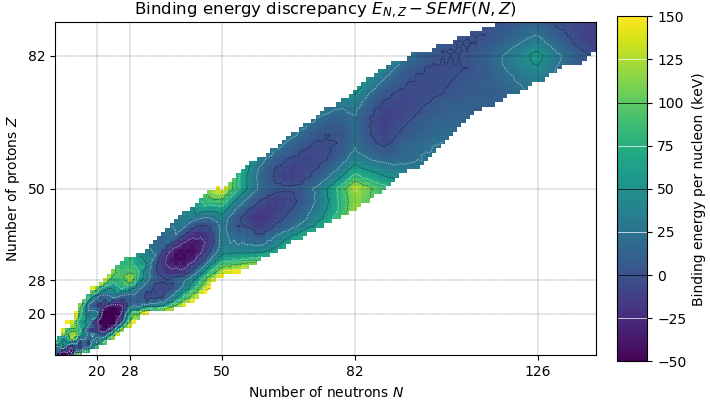
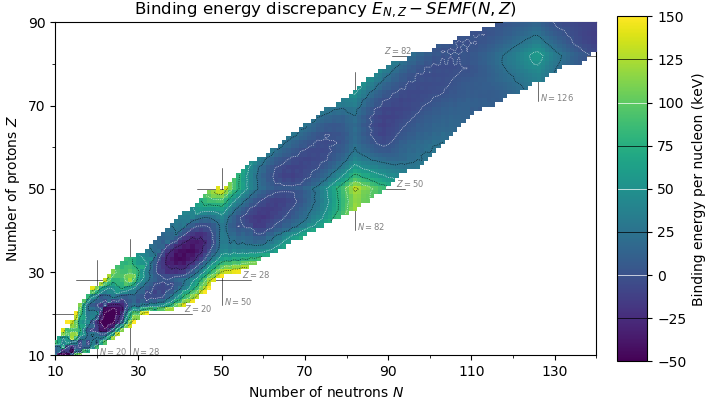
Merge efforts, add contour, labels

diff --git a/shell_gap.py b/shell_gap.py
@@ -4,7 +4,7 @@ import numpy as np
 import pandas as pd
 from matplotlib import pyplot, colors, lines
 
-from helpers import grid_data, magic_lines
+from helpers import grid, grid_data, magic_lines, LINE, LABEL, GRAPH, CONTOUR
 
 N_REL = 60  # separation between n and p shell gaps as displayed
 
@@ -44,34 +44,15 @@ for n, z in product(range(max_n+1), range(max_z+1)):
     if (n+2, z  ) in s2n:
         shell_n[n, z] = shell_comb[n+N_REL, z] = s2n[n,z] - s2n[n+2,z  ]
 
-z = np.arange(0, max_z+1)
-n = np.arange(0, max_n+1 + N_REL)
-N, Z = np.meshgrid(n, z)
-
-MAGIC = magic_lines(s2p, s2n)
-
 ## FIGURE
- 
-fig = pyplot.figure(constrained_layout=True)
-ax = fig.add_subplot()
-ax.set_title('Proton and neutron empirical shell gaps')
-ax.set_ylabel('Number of protons $Z$')
-ax.set_ylim(0, max_z-4)
 
-N_TICKS = 1 + (max_n + N_REL) // 10
-ax.set_xticks(range(0, 10*N_TICKS, 10), minor=True)
-ax.set_xticks(range(0, 10*N_TICKS, 20))
-
-Z_TICKS = 1 + (max_z) // 10
-ax.set_yticks(range(0, 10*Z_TICKS, 10), minor=True)
-ax.set_yticks(range(0, 10*Z_TICKS, 20))
-
+fig, ax, (N, Z) = grid(max_n-4+N_REL, max_z-4, minor=10, major=20)
+ax.set_title('Empirical shell gaps for binding energy $E$')
 ax.set_xlabel('Number of neutrons $N$ ($N+{}$ for neutron shell gaps)'.format(N_REL))
-ax.set_xlim(0, max_n-4 + N_REL)
 
 E = grid_data(shell_comb, N, Z)
-img = ax.imshow(
-    E, norm=colors.SymLogNorm(5), cmap='viridis', zorder=3)
+contour = ax.contour(E, (0, 1), **CONTOUR)
+img = ax.imshow(E, norm=colors.SymLogNorm(5), **GRAPH)
 
 # tick marks are nonlinear
 SHELL_TICKS = (-1, 0, 1, 2, 3, 4, 5, 10, 20)
@@ -81,25 +62,31 @@ SHELL_TICKMARKS[-1] += ' MeV'
 cbar = fig.colorbar(img, ticks=SHELL_TICKS)
 cbar.ax.set_yticklabels(SHELL_TICKMARKS)
 cbar.ax.set_ylabel('Empirical shell gap')
+cbar.add_lines(contour)
 
 # MAGIC NUMBERS
-LINE = dict(axes=ax, zorder=1, c='black', lw=0.4)
-LABEL = dict(xycoords='data', color='gray', size=6)
+LINE['axes'] = ax
 
-for i, line in MAGIC.items():
-    if i < 100:
-        line['n'][1] += N_REL
-        ax.add_line(lines.Line2D(line['n'], [i, i], **LINE))
-        x = sum(line['n'])*0.5
+for i, ((n0, n1), (z0, z1)) in magic_lines(s2p, -5, s2n, +5):
+    if n0:
+        n1 += N_REL
+        ax.add_line(lines.Line2D((n0, n1), (i, i), **LINE))
+        x = (n0+n1)/2
         ax.annotate("$Z={}$".format(i), (x*0.95 + 5, i+0.5), **LABEL)
     
     for n in 0, N_REL:
-        ax.add_line(lines.Line2D([i+n, i+n], line['z'], **LINE))
-    ax.annotate("$N={}$".format(i), (i+N_REL+0.5, line['z'][0]), **LABEL)
+        ax.add_line(lines.Line2D((i+n, i+n), (z0, z1), **LINE))
+    ax.annotate("$N={}$".format(i), (i+N_REL+0.5, z0), **LABEL)
 
 NZ = NZ_LINE_STOPPER = 56
 ax.add_line(lines.Line2D([    0,       NZ], [0, NZ], **LINE))
 ax.add_line(lines.Line2D([N_REL, N_REL+NZ], [0, NZ], **LINE))
+
+for l, xy in (
+    ('Proton shell gap \n$Δ_{2p}(N,Z)=E_{N,Z+2}+E_{N,Z-2}-2E_{N,Z}$', (20, 90)),
+    ('Neutron shell gap\n$Δ_{2n}(N,Z)=E_{N+2,Z}+E_{N-2,Z}-2E_{N,Z}$', (130, 20))
+):
+    ax.annotate(l, xy)
 
 fig.set_size_inches(8.2, 4)
 pyplot.savefig('shell_gap.png', transparency=True)

diff --git a/drop_discrepancy.py b/drop_discrepancy.py
@@ -1,51 +1,44 @@
 import numpy as np
 from matplotlib import pyplot, colors, lines
 
-from helpers import magic_lines, grid_data
 from drop_data import df, df_dict, binding_per_nucleon
+from helpers import grid, grid_data, magic_lines, LINE, LABEL, GRAPH, CONTOUR
 
 df['difference'] = df.E - binding_per_nucleon(df.N, df.Z)
 
 if __name__ == '__main__':
-    fig, ax = pyplot.subplots(constrained_layout=True)
+    max_n, max_z = 140, 90
+    fig, ax, (N, Z) = grid(max_n, max_z, minor=10, major=20, min_nz=10)
     ax.set_title('Binding energy discrepancy $E_{N,Z} - SEMF(N,Z)$')
-    minZN, maxZ, maxN = 10, 90, 140
-
-    ax.set_ylabel('Number of protons $Z$')
-    z = np.arange(0, maxZ+1)
-    ax.set_ylim(minZN, maxZ)
-    magicP = (20, 28, 50, 82)
-    ax.set_yticks(magicP, minor=False)
-    for y in magicP: ax.axhline(y, c='black', ls='dashed', lw=0.2)
-
-    ax.set_xlabel('Number of neutrons $N$')
-    n = np.arange(0, maxN+1)
-    ax.set_xlim(minZN, maxN)
-    magicN = (20, 28, 50, 82, 126)
-    ax.set_xticks(magicN, minor=False)
-    for x in magicN: ax.axvline(x, c='black', ls='dashed', lw=0.2)
-
-    energy = 'Binding energy per nucleon (keV)'
-    N, Z = np.meshgrid(n, z)
+    
     data = df_dict('difference')
     E = grid_data(data, N, Z)
-    E[N < minZN] = E[Z < minZN] = 0
     
     minE, maxE = -50, 150
     E[E > 152] = float('nan')
     contours = np.linspace(minE, maxE, (maxE-minE)//25+1)
-    contour = ax.contour(
-        E, contours, colors=('black', 'white'),
-        linestyles='dotted', linewidths=0.5)
+    contour = ax.contour(E, contours, **CONTOUR)
 
     E[E < minE] = minE
     E[E > maxE] = maxE
 
-    image = ax.imshow(E, cmap='viridis', origin='lower')
+    image = ax.imshow(E, **GRAPH)
     cbar = fig.colorbar(image)
-    cbar.ax.set_ylabel(energy)
+    cbar.ax.set_ylabel('Binding energy per nucleon (keV)')
     cbar.set_ticks(contours)
     cbar.add_lines(contour)
+
+    # MAGIC NUMBERS
+    LINE['axes'] = ax
+
+    for i, ((n0, n1), (z0, z1)) in magic_lines(data, +5, data, +5):
+        if n0:
+            ax.add_line(lines.Line2D((n0, n1), (i, i), **LINE))
+            x = n1 if n1 < max_n else n0 
+            ax.annotate("$Z={}$".format(i), (x-2, i+0.5), **LABEL)
+        if z0:
+            ax.add_line(lines.Line2D((i, i), (z0, z1), **LINE))
+            ax.annotate("$N={}$".format(i), (i+0.5, max(z0, 10)), **LABEL)
 
     fig.set_size_inches(7.1, 4)
     pyplot.savefig('drop_discrepancy.png', transparency=True)

diff --git a/drop_prediction.py b/drop_prediction.py
@@ -1,30 +1,17 @@
 import numpy as np
 from matplotlib import pyplot
 
-from helpers import grid_data
+from helpers import grid_data, grid, GRAPH
 from drop_data import df_dict, binding_per_nucleon
 
 def prediction(do_ticks, show_title, do_contours, do_stable):
-    fig, ax = pyplot.subplots(constrained_layout=True)
-
-    ax.set_xlabel('Number of neutrons $N$')
-    ax.set_xlim(0, 140)
-    n = np.arange(1, 143)
-
-    ax.set_ylabel('Number of protons $Z$')
-    ax.set_ylim(0, 90)
-    z = np.arange(1, 93)
-
-    N, Z = np.meshgrid(n, z)
+    fig, ax, (N, Z) = grid(140, 90, major=10, minor=20, min_nz=0, data_min=1)
     E = binding_per_nucleon(N, Z) / 1000
     E[E<0] = 0
-    image = ax.imshow(E, cmap='viridis', origin='lower', alpha=1)
+    image = ax.imshow(E, **GRAPH)
 
-    if do_ticks:
-        ax.set_xticks(range(10, 140, 10), minor=True)
-    else:
-        ax.set_xticks([])
-        ax.set_yticks([])
+    if not do_ticks:
+        ax.set_xticks([]); ax.set_yticks([])
 
     if show_title:
         ax.set_title('Semi-empirical mass formula $SEMF(N, Z)$')
@@ -38,17 +25,18 @@ def prediction(do_ticks, show_title, do_contours, do_stable):
     else:
         contours = (0, )
         
-    contour_lines = ax.contour(E, contours, cmap='magma')
+    contour_lines = ax.contour(E, contours, cmap='magma', zorder=5)
     if do_contours:
         cbar.add_lines(contour_lines)
 
     if do_stable:
         E_known = grid_data(df_dict('E_known'), N, Z, orelse=0)
-        experimental_contour = ax.contour(E_known, (0,), cmap='gray',
-            linestyles=('dashed', ), linewidths=(0.5, ))
+        experimental_contour = ax.contour(
+            E_known, (-10, 0), zorder=5,
+            cmap='gray', linestyles=('dashed', ), linewidths=(0.5, ))
 
     fig.set_size_inches(7.1, 4)
     pyplot.savefig('drop_prediction.png', transparent=True)
 
 if __name__ == '__main__':
-    prediction(do_ticks=False, show_title=True, do_contours=True, do_stable=False)
+    prediction(do_ticks=True, show_title=True, do_contours=True, do_stable=True)

diff --git a/helpers.py b/helpers.py
@@ -1,3 +1,4 @@
+from matplotlib import pyplot
 import numpy as np
 
 NaN = float('NaN')
@@ -6,14 +7,36 @@ def grid_data(dictionary, N, Z, orelse=NaN):
     f = np.vectorize(lambda n, z: dictionary.get((n, z), orelse))
     return f(N, Z)
 
-MLT = MAGIC_LINE_EXTENSION = 5
-magic_lines = lambda p_data, n_data: {
-    i: {'n': [
-        min(n for n, z in p_data if z == i) + MLT,
-        max(n for n, z in p_data if z == i) - MLT
-    ] if i < 100 else (0, 0),
-        'z': [
-        min(z for n, z in n_data if n == i) - MLT,
-        max(z for n, z in n_data if n == i) + MLT
-    ]} for i in (8, 20, 28, 50, 82, 126)
-}
+# style
+
+def grid(max_n, max_z, minor, major, min_nz=0, data_min=0):
+    '''
+    Create a typical NZ grid with minor and major ticks.
+    '''
+    fig, ax = pyplot.subplots(constrained_layout=True)
+    ax.set_xlabel('Number of neutrons $N$')
+    ax.set_ylabel('Number of protons $Z$')
+    ax.set_xlim(min_nz, max_n)
+    ax.set_ylim(min_nz, max_z)
+    r = lambda m, b: range(min_nz, 10*(1+m//10), b)
+    for m, f in (max_n, ax.set_xticks), (max_z, ax.set_yticks):
+        f(r(m, major)); f(r(m, minor), minor=True)
+    n = np.arange(data_min, max_n+2)
+    z = np.arange(data_min, max_z+2)
+    return fig, ax, np.meshgrid(n, z)
+
+LINE    = dict(zorder=1, c='black', lw=0.4)
+GRAPH   = dict(zorder=3, cmap='viridis', origin='lower')
+CONTOUR = dict(zorder=5, colors=('white', 'black'), linestyles='dotted', linewidths=0.5)
+LABEL   = dict(zorder=7, c='gray',  size=6, xycoords='data')
+
+magic_lines = lambda p_data, p_width, n_data, n_width: {
+    i: ((
+        min(n for n, z in p_data if z == i) - p_width,
+        max(n for n, z in p_data if z == i) + p_width
+    ) if i < 100 else (None, None),
+        (  
+        min(z for n, z in n_data if n == i) - n_width,
+        max(z for n, z in n_data if n == i) + n_width
+    )) for i in (8, 20, 28, 50, 82, 126)
+}.items()
